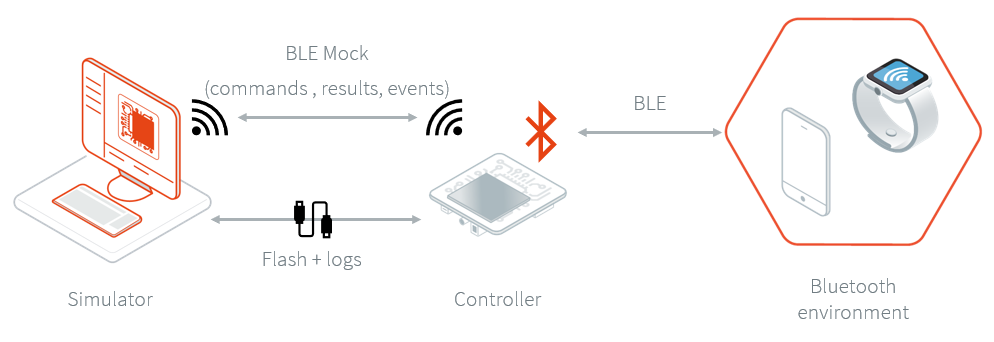
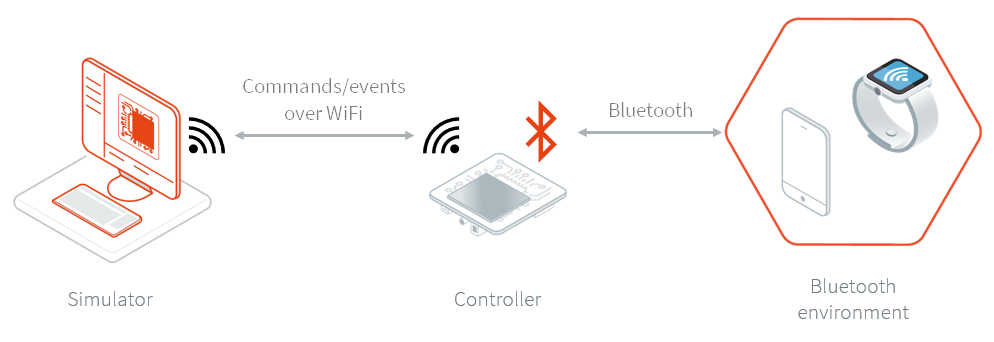
Improve Bluetooth mock doc

diff --git a/VEEPortingGuide/blemock.rst b/VEEPortingGuide/blemock.rst
@@ -6,57 +6,69 @@ Bluetooth Mock
 Overview
 --------
 
-To run a MicroEJ Application that uses the :ref:`Bluetooth API Library <bluetooth_api>` 
-on MicroEJ Simulator, a Bluetooth Mock Controller must be set up first:
+To run a MicroEJ Application that uses the `Bluetooth API Library <https://repository.microej.com/modules/ej/api/bluetooth/>`_ on MicroEJ Simulator, a Bluetooth Controller is required:
 
 .. image:: images/blemock-controller.png
    :align: center
 
-The Bluetooth Mock Controller is a hardware mock of the Bluetooth library. It
-means the Simulator uses a real Bluetooth device to scan other devices,
-advertise, discover services, connect, pair, etc... This design enables
-testing of apps in a real-world environment.
+The Bluetooth Controller is a dedicated device that communicates with the Simulator to perform the Bluetooth operations of the Application.
+This means that the Simulator delegates the Bluetooth operations (scanning, advertising, discovering services, connecting, etc.) to a real Bluetooth device.
+This allows testing a Bluetooth application on any development environment.
 
-The Bluetooth Mock Controller implementation is provided for the `ESP32-S3-DevKitC-1
-board reference <https://docs.espressif.com/projects/esp-idf/en/latest/esp32s3/hw-reference/esp32s3/user-guide-devkitc-1.html>`_.
-Other implementations or sources can be provided on request.
-
-.. _ej.api.bluetooth: https://repository.microej.com/modules/ej/api/bluetooth/
+The Bluetooth Controller firmware is provided for the inexpensive `ESP32-S3-DevKitC-1-N8R8 board <https://docs.espressif.com/projects/esp-dev-kits/en/latest/esp32s3/esp32-s3-devkitc-1/user_guide.html>`_.
 
 Requirements
 ------------
 
-- A ESP32-S3-DevKitC-1 board.
-- A Bluetooth Mock Controller firmware_ (this executable only works with versions ``[2.0.0;2.3.0[`` of the Bluetooth Pack).
-- An `Espressif tool <https://www.espressif.com/en/support/download/other-tools>`_ to flash the firmware.
+- An ESP32-S3-DevKitC-1-N8R8 board.
+- A Bluetooth Controller firmware (see section below).
+- The `Espressif Flash Download Tools <https://www.espressif.com/en/support/download/other-tools>`_.
+
+Controller Firmwares
+--------------------
+
+There are multiple versions of the Controller firmware, each compatible with a specific range of Bluetooth Pack versions.
+
+The following table indicates the firmware to use depending on the Bluetooth Pack version integrated in the VEE Port:
+
+.. list-table::
+   :widths: 10 10
+   :header-rows: 1
+
+   * - Bluetooth Pack Versions
+     - Controller Firmware
+   * - [2.0.0-2.3.0[
+     - `1.0.0 <https://repository.microej.com/packages/ble-mock/Executable-Bluetooth-Mock-Controller-ESP32-S3-1.0.0.bin>`__
+   * - [2.3.0-2.6.0[
+     - `1.1.1 <https://repository.microej.com/packages/ble-mock/Executable-Bluetooth-Mock-Controller-ESP32-S3-1.1.1.bin>`__
+   * - [2.6.0-3.0.0[
+     - `2.0.0 <https://repository.microej.com/packages/ble-mock/Executable-Bluetooth-Mock-Controller-ESP32-S3-2.0.0.bin>`__
 
 Usage
 -----
 
 To simulate a Bluetooth application, follow these three steps:
 
-- Set up the controller
-- Set up the network configuration
+- Install the controller firmware
+- Configure the Wi-Fi network
 - Run the application on the Simulator
 
 If your are facing any issues, check the :ref:`Troubleshooting <blemock-troubleshooting>` section.
 
-Controller Setup
-~~~~~~~~~~~~~~~~
+Controller Firmware Installation
+~~~~~~~~~~~~~~~~~~~~~~~~~~~~~~~~
 
-To set up the controller, follow these steps:
+To install the controller firmware on the ESP32-S3 board, follow these steps:
 
-- Plug-in the ESP32-S3-DevKitC-1 board to your computer,
+- Plug in the ESP32-S3 board to your computer,
 - Find the associated COM port,
-- In the flash tool:
+- In the flash download tool:
 
-  - select the chip "ESP32-S3"
-  - browse the firmware file (``Executable-Bluetooth-Mock-Controller-ESP32-S3-1.0.0.bin``)
-  - set the offset to 0x000000
-  - set the SPI speed to 80 Mhz
-  - set the SPI mode to DIO
-  - set the COM port
-  - set the baudrate to 460 800
+  - select the ``ESP32-S3`` chip type
+  - browse the firmware file (``Executable-Bluetooth-Mock-Controller-ESP32-S3-x.y.z.bin``)
+  - set the target address to ``0``
+  - set the SPI speed to ``80MHz`` and the SPI mode to ``DIO``
+  - select the appopriate COM port and set the baudrate to ``460800``
   - start the flash download
 
 With the flash download tool from Espressif, you should end with something similar to this :
@@ -68,10 +80,10 @@ With the flash download tool from Espressif, you should end with something simil
 
    Bluetooth Controller Flash Download Tool Configuration
 
-Network Setup
-~~~~~~~~~~~~~
+Wi-Fi Setup
+~~~~~~~~~~~
 
-To configure the network:
+To configure the Wi-Fi network used by the controller:
 
 #. Connect your computer to the Wi-Fi network "BLE-Mock-Controller-[hexa device id]" mounted by the controller.
 #. Open a browser and connect to ``http://192.168.4.1/`` to access the Wi-Fi setup
@@ -82,17 +94,16 @@ To configure the network:
 
 #. Select the desired network and provide the required information if asked.
    If an error occurs during the connection, retry this step.
-#. In case the device is successfully connected to the desired network, the
+#. In case the ESP32-S3 board is successfully connected to the desired network, the
    web page should looks like this:
 
    .. image:: images/blemock-wifi-setup-last-screen.png
       :align: center
 
-   Additionally, the serial output of the device shows connection status.
+   Additionally, the serial output of the ESP32-S3 board shows connection status.
 #. Connect your computer back to this network: your computer and the
    controller must be in the same network.
-#. Reboot the ESP32-S3-DevKitC-1 board. 
-
+#. Reboot the ESP32-S3 board. 
 
 Simulation
 ~~~~~~~~~~
@@ -109,7 +120,7 @@ The IP address of the controller is available in the logs :
 
 Before running your Bluetooth application on the Simulator, in the
 :ref:`Run configuration <concepts-microejlaunches>` panel, set the simulation mode
-to "Controller (over net)" and configure the Bluetooth Mock settings.
+to "Controller (over net)" and configure the connection options.
 
 .. figure:: images/blemock-configuration.png
    :alt: Bluetooth Mock Configuration
@@ -118,9 +129,7 @@ to "Controller (over net)" and configure the Bluetooth Mock settings.
 
    Bluetooth Mock Configuration
 
-Launching the application on the Simulator will restore the controller to its
-initial state (the Bluetooth adapter is disabled).
-
+Launching the application on the Simulator restores the controller to its initial state.
 
 .. _blemock-troubleshooting:
 
@@ -148,8 +157,7 @@ change them, erase the flash and reflash the firmware.
 "Invalid parameter type: 0x47 expected 0x53" error
 ^^^^^^^^^^^^^^^^^^^^^^^^^^^^^^^^^^^^^^^^^^^^^^^^^^
 
-Reboot the ESP32-S3-DevKitC-1 board. The controller restarts and connects to the Wi-Fi.
-
+Reboot the ESP32-S3 board. The controller restarts and connects to the Wi-Fi.
 
 Simulation Errors
 ~~~~~~~~~~~~~~~~~
@@ -158,12 +166,9 @@ Error during the simulation: mock could not connect to controller
 ^^^^^^^^^^^^^^^^^^^^^^^^^^^^^^^^^^^^^^^^^^^^^^^^^^^^^^^^^^^^^^^^^
 
 This error means the mock process (Simulator) could not initialize the connection
-with the controller. Please check that the device is connected to the network
+with the controller. Please check that the ESP32-S3 board is connected to the network
 (see logs in the serial port output) and that your computer is in the same
 network.
-
-.. _developer.microej.com: https://developer.microej.com/getting-started-sdk-esp32-wrover-5.html
-.. _firmware: https://repository.microej.com/packages/ble-mock/Executable-Bluetooth-Mock-Controller-ESP32-S3-1.0.0.bin
 
 ..
    | Copyright 2008-2024, MicroEJ Corp. Content in this space is free 
